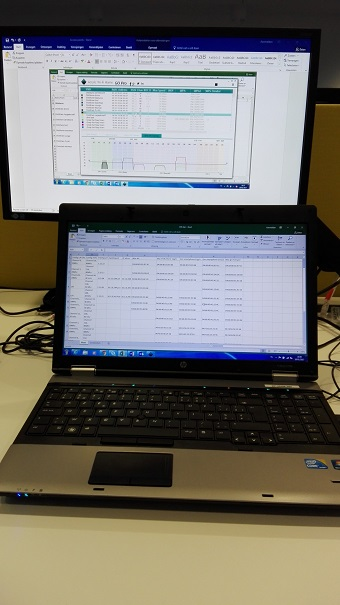
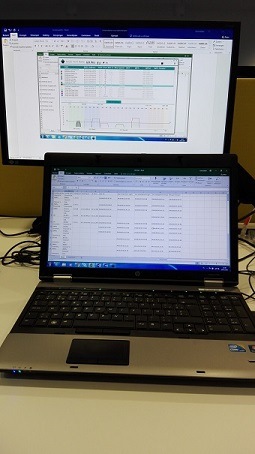
dag10

diff --git a/Dag10.html b/Dag10.html
@@ -1,0 +1,69 @@
+<!doctype html>
+	<html>
+	<head>
+	    
+	    <meta charset="utf-8">
+	    <meta http-equiv="X-UA-Compatible" content="chrome=1">
+	     <meta name="viewport" content="width=device-width", "initial-scale=1.0" >
+	    <title>Gipwebsite</title>
+	    <link rel="icon" type="image/png" href="Images/Favicon.png">
+	    <link rel="stylesheet" href="Vendor/styles.css">
+	    <link rel="stylesheet" href="Vendor/github-light.css">
+	    <link rel="stylesheet" href="Vendor/Pure.css">
+	    <link rel="stylesheet" href="https://fonts.googleapis.com/css?family=Prociono" >
+	    <link href="https://fonts.googleapis.com/css?family=Oswald" rel="stylesheet">
+	   
+	</head>
+	<body>
+	    <nav>
+	       
+	
+	        <label for="drop" class="toggle">Menu</label>
+	        <input type="checkbox" id="drop" />
+	        <ul class="menu">
+	            <li><a href="index.html">Home</a></li>
+	            <li>
+	                <label for="drop-1" class="toggle">Taken</label>
+	                <a href="Taken.html">Taken</a>
+	                <input type="checkbox" id="drop-1" />
+	                <ul>
+	                    <li><a href="Engels.html">Engels</a></li>
+	                    <li><a href="Frans.html">Frans</a></li>
+	                    <li><a href="Nederlands.html">Nederlands</a></li>
+	                </ul>
+	
+	            </li>
+	            <li>
+	
+	            <li><a href="Stageverslagen.html">StageVerslagen</a></li>
+	            <li><a href="Over.html">Over</a></li>
+	            <li><a href="ITtapa.html"> It-tapa</a></li>
+	           <li><a href="ITprofile.html"> It-profile</a></li>
+	
+	        </ul>
+	    </nav>
+	
+	          <p id ="Veeltekst" >Vandaag heb ik (eindelijk) de laatste schijf kunnen wissen.</p>
+	            <p id ="Veeltekst" >Verder heb ik s 'morgens ook met iemand een router  geconfigureerd, daarna waren er nog enkele laptops die geupdatet moesten worden.  </p>
+                  <p id ="Veeltekst" > De namiddag bestond vooral uit het opruimen van de kamer waar alle spullen lagen.</p>
+                    <p id ="Veeltekst" > Om af te sluiten wil ik zeggen dat ik veel geleerd heb op de stage, nu heb ik eens kunnen zien hoe het er echt aantoe gaat in een bedrijf.
+                        Het was heel interessant om te zien en het mee te volgen. Ook heb ik al wat advies gekregen over mogelijke studierichtingen volgend jaar. Het was dus een fijne ervaring die ook heel leerrijk was.
+                        Ik voelde me welkom vanaf dag 1, iedereen was heel vriendelijk. Daarvoor wil ik ze ook hartelijk bedanken.
+                    </p>
+	            <p> </p>
+         <p>. </p>
+         <p> .</p>
+         <p> .</p>
+        <p id ="Veeltekst">( Als u zich afvraagt waarom ik een macintosh als foto koos voor deze pagina, dat is omdat ze er daar nog enkele oude hebben staan maar ik ben er een foto van vergeten nemen)</p>
+	        <hr>
+	      <footer id="FooterSpace" class="footer">
+	          <p>Cedric Sas</p>           
+	            <p>6ITN</p>
+	            <p>Immaculata instituut</p>
+	          <p>Repository:</p>
+	        <a href ="https://github.com/CedricS-immalle/CedricS-github.io" target="_blank" ><img border="0" alt="Link repository"
+	             src="Images/GithubLogo.png" width="50" height="50" /></a>
+	    </footer>
+	</body>
+	</html>
+

diff --git a/Stageverslagen.html b/Stageverslagen.html
@@ -80,7 +80,10 @@
             <h3>DAG 9</h3>
             <img src="Images/Dag9.jpg" class="animated fadeInUp"/>
         </a>
-   
+     <a href="Dag10.html" id="StageAfbeelding" class="pure-u-1-2" >
+            <h3>DAG 10</h3>
+            <img src="Images/Dag10.png" class="animated fadeInUp"/>
+        </a>
    
   </div>
 
